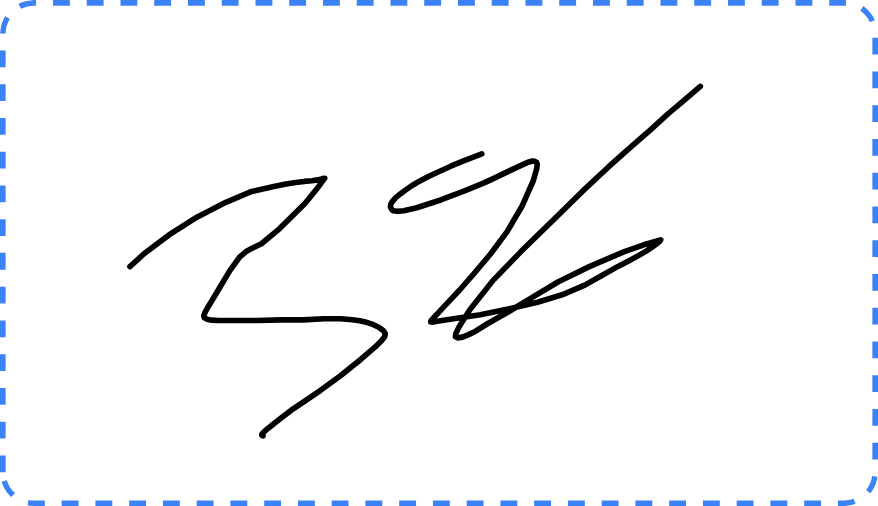
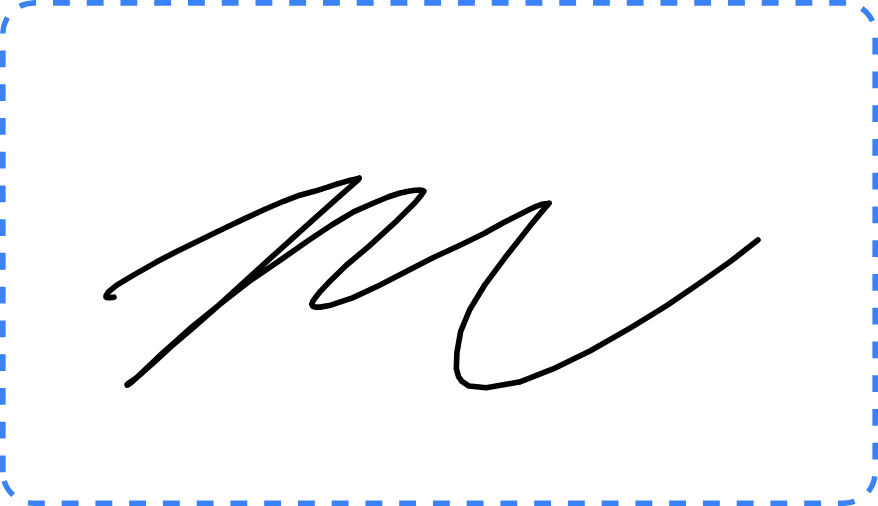
Update work order search to find orders by either old or new meter ID
Modify the GET /api/projects/:projectId/work-orders/by-meter/:meterId endpoint to query for matching work orders using both `old_meter_id` and `new_meter_id` fields in the WHERE clause. Update the 404 response message accordingly.

Replit-Commit-Author: Agent
Replit-Commit-Session-Id: 312d1917-ff70-4b7c-b1d0-0cfed847d154
Replit-Commit-Checkpoint-Type: full_checkpoint
Replit-Commit-Event-Id: f436575d-1358-4819-84a0-15ff4409d4f6
Replit-Commit-Screenshot-Url: https://storage.googleapis.com/screenshot-production-us-central1/9dfbb73b-9f94-4b2e-a0c6-1bd774946c5c/312d1917-ff70-4b7c-b1d0-0cfed847d154/ZRy5zGq
Replit-Helium-Checkpoint-Created: true

diff --git a/server/routes.ts b/server/routes.ts
@@ -1297,7 +1297,7 @@ export async function registerRoutes(
     }
   });
 
-  // Look up work order by old meter ID
+  // Look up work order by meter ID (searches both old and new meter IDs)
   app.get("/api/projects/:projectId/work-orders/by-meter/:meterId", isAuthenticated, async (req: any, res) => {
     try {
       const currentUser = await storage.getUser(req.user.claims.sub);
@@ -1317,6 +1317,7 @@ export async function registerRoutes(
       }
       
       // Query directly with JOINs to get snake_case format matching mobile sync endpoint
+      // Searches both old_meter_id and new_meter_id fields
       const client = await pool.connect();
       try {
         const result = await client.query(`
@@ -1329,11 +1330,11 @@ export async function registerRoutes(
           LEFT JOIN public.users sb ON w.scheduled_by = sb.id
           LEFT JOIN public.users cb ON w.completed_by = cb.id
           LEFT JOIN public.users au ON w.assigned_user_id = au.id
-          WHERE w.old_meter_id = $1
+          WHERE w.old_meter_id = $1 OR w.new_meter_id = $1
         `, [meterId]);
         
         if (result.rows.length === 0) {
-          return res.status(404).json({ message: "Work order not found with old meter ID: " + meterId });
+          return res.status(404).json({ message: "Work order not found with meter ID: " + meterId });
         }
         
         const workOrder = result.rows[0];
